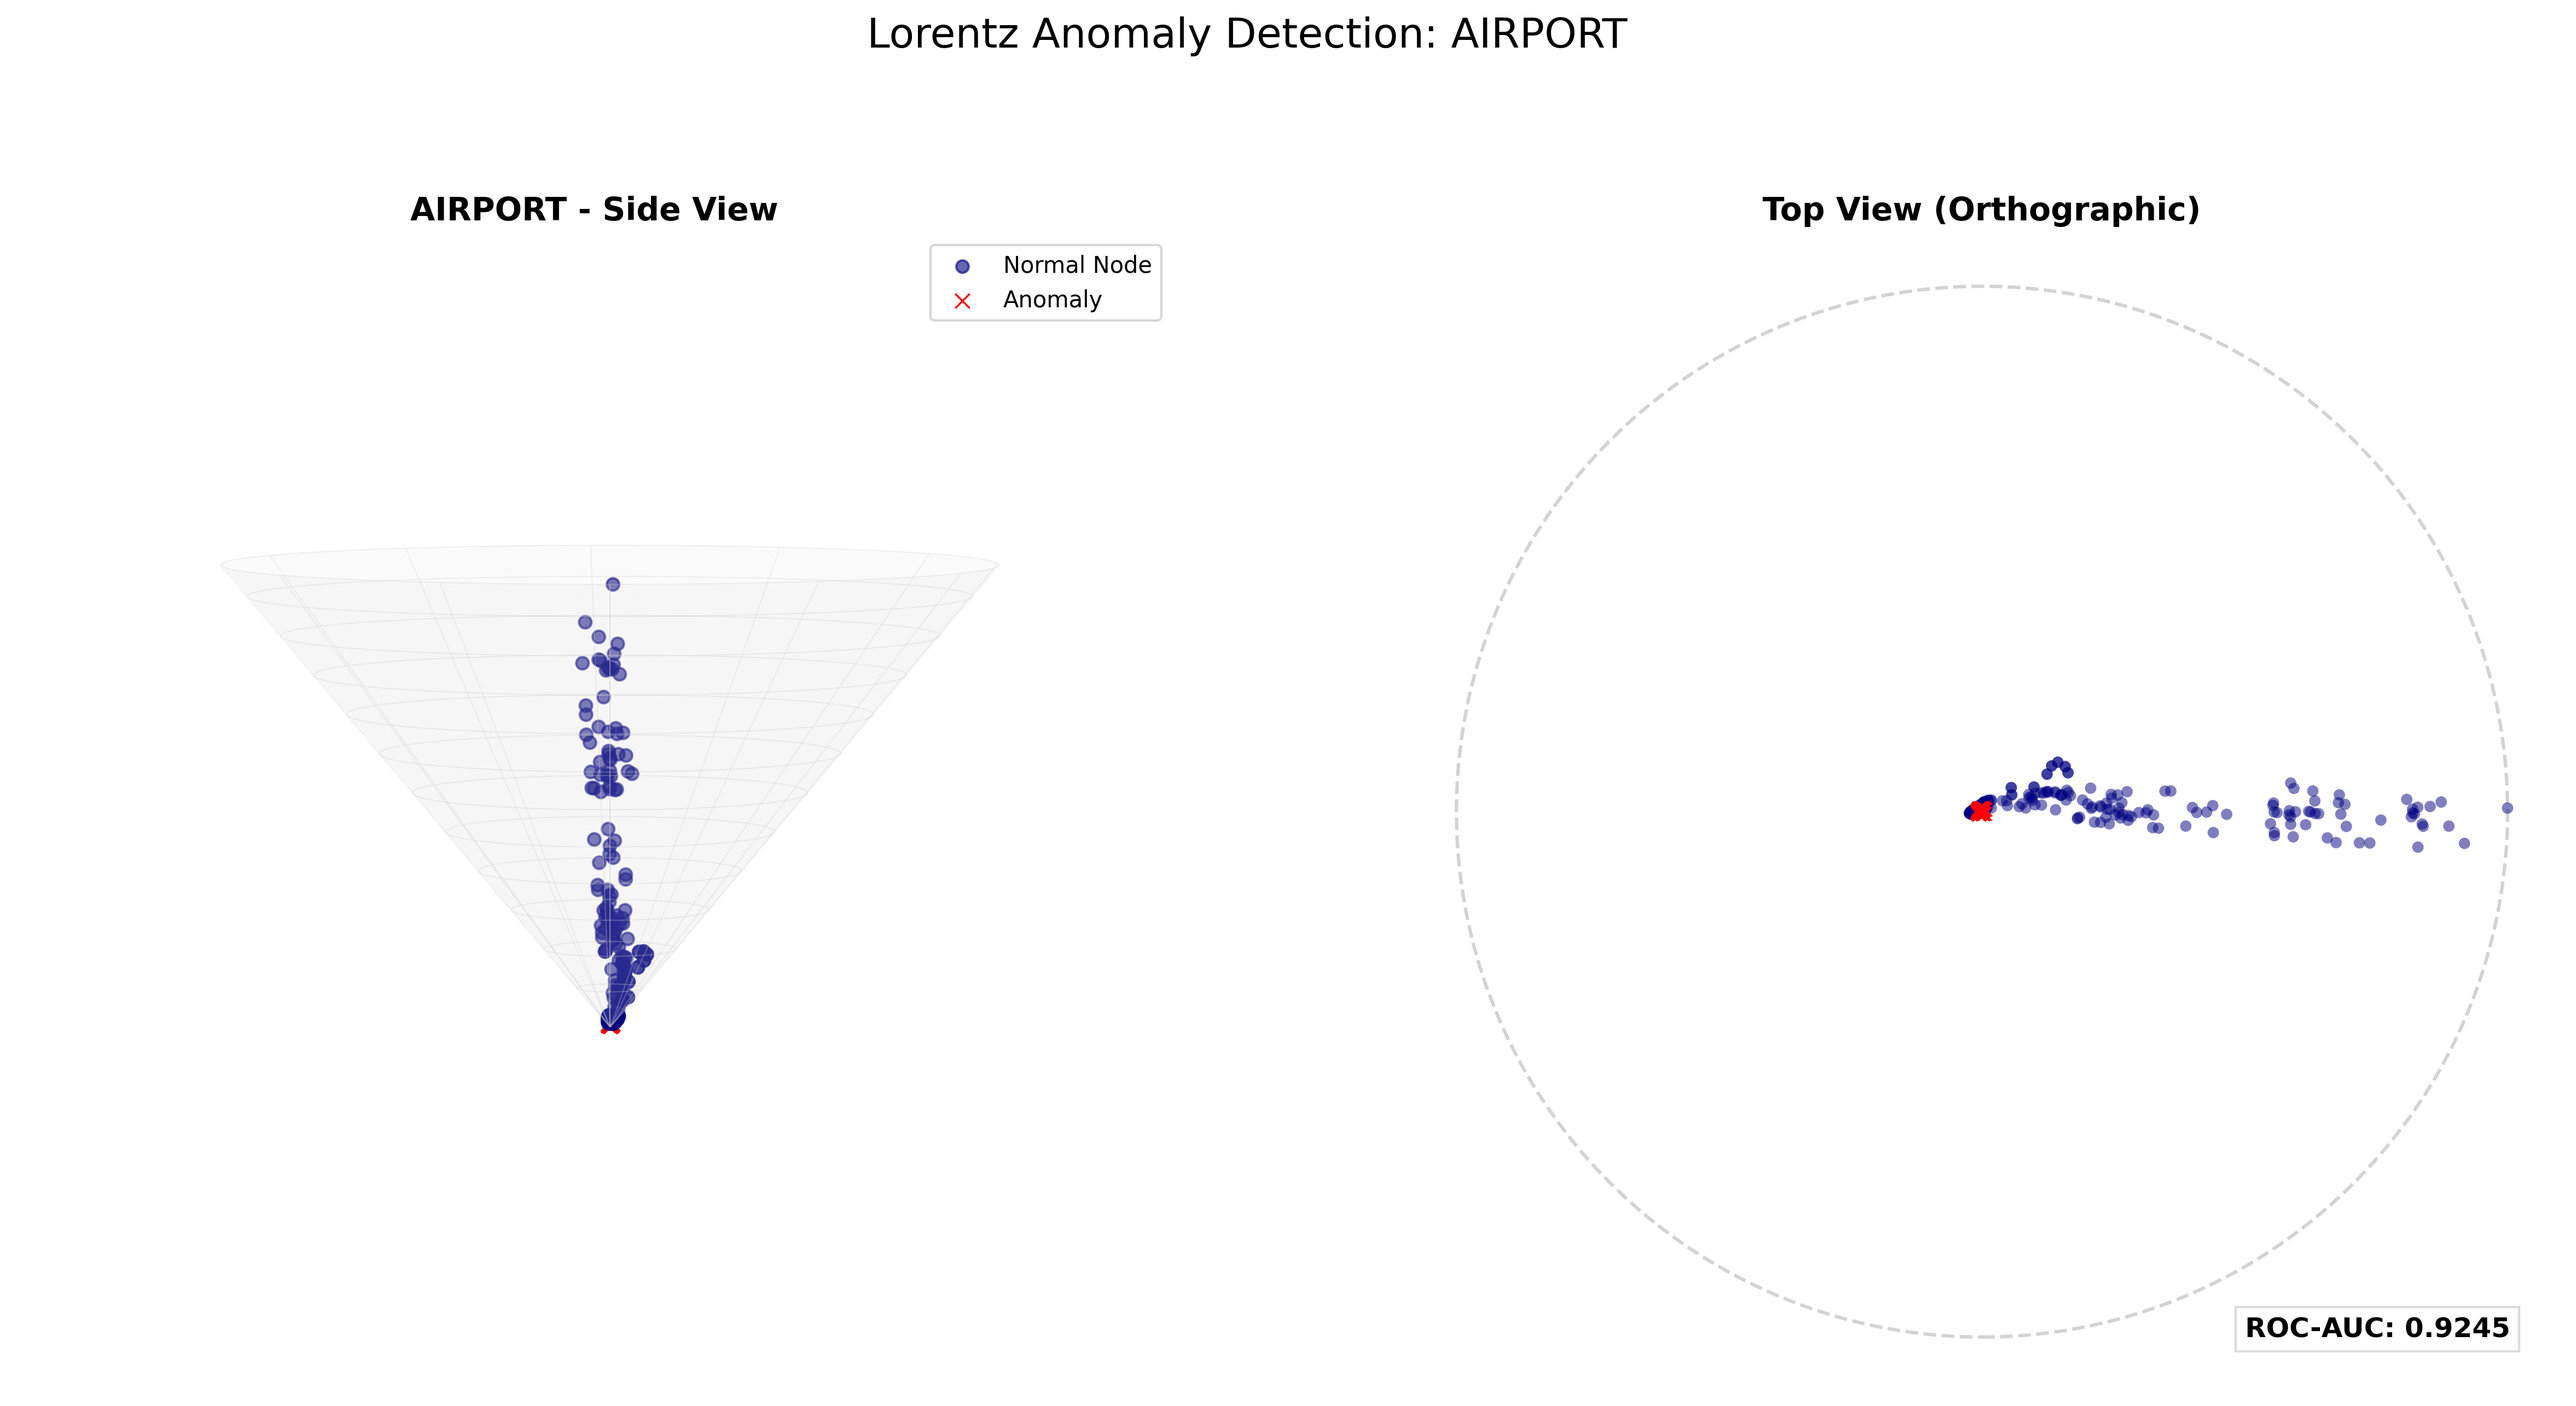
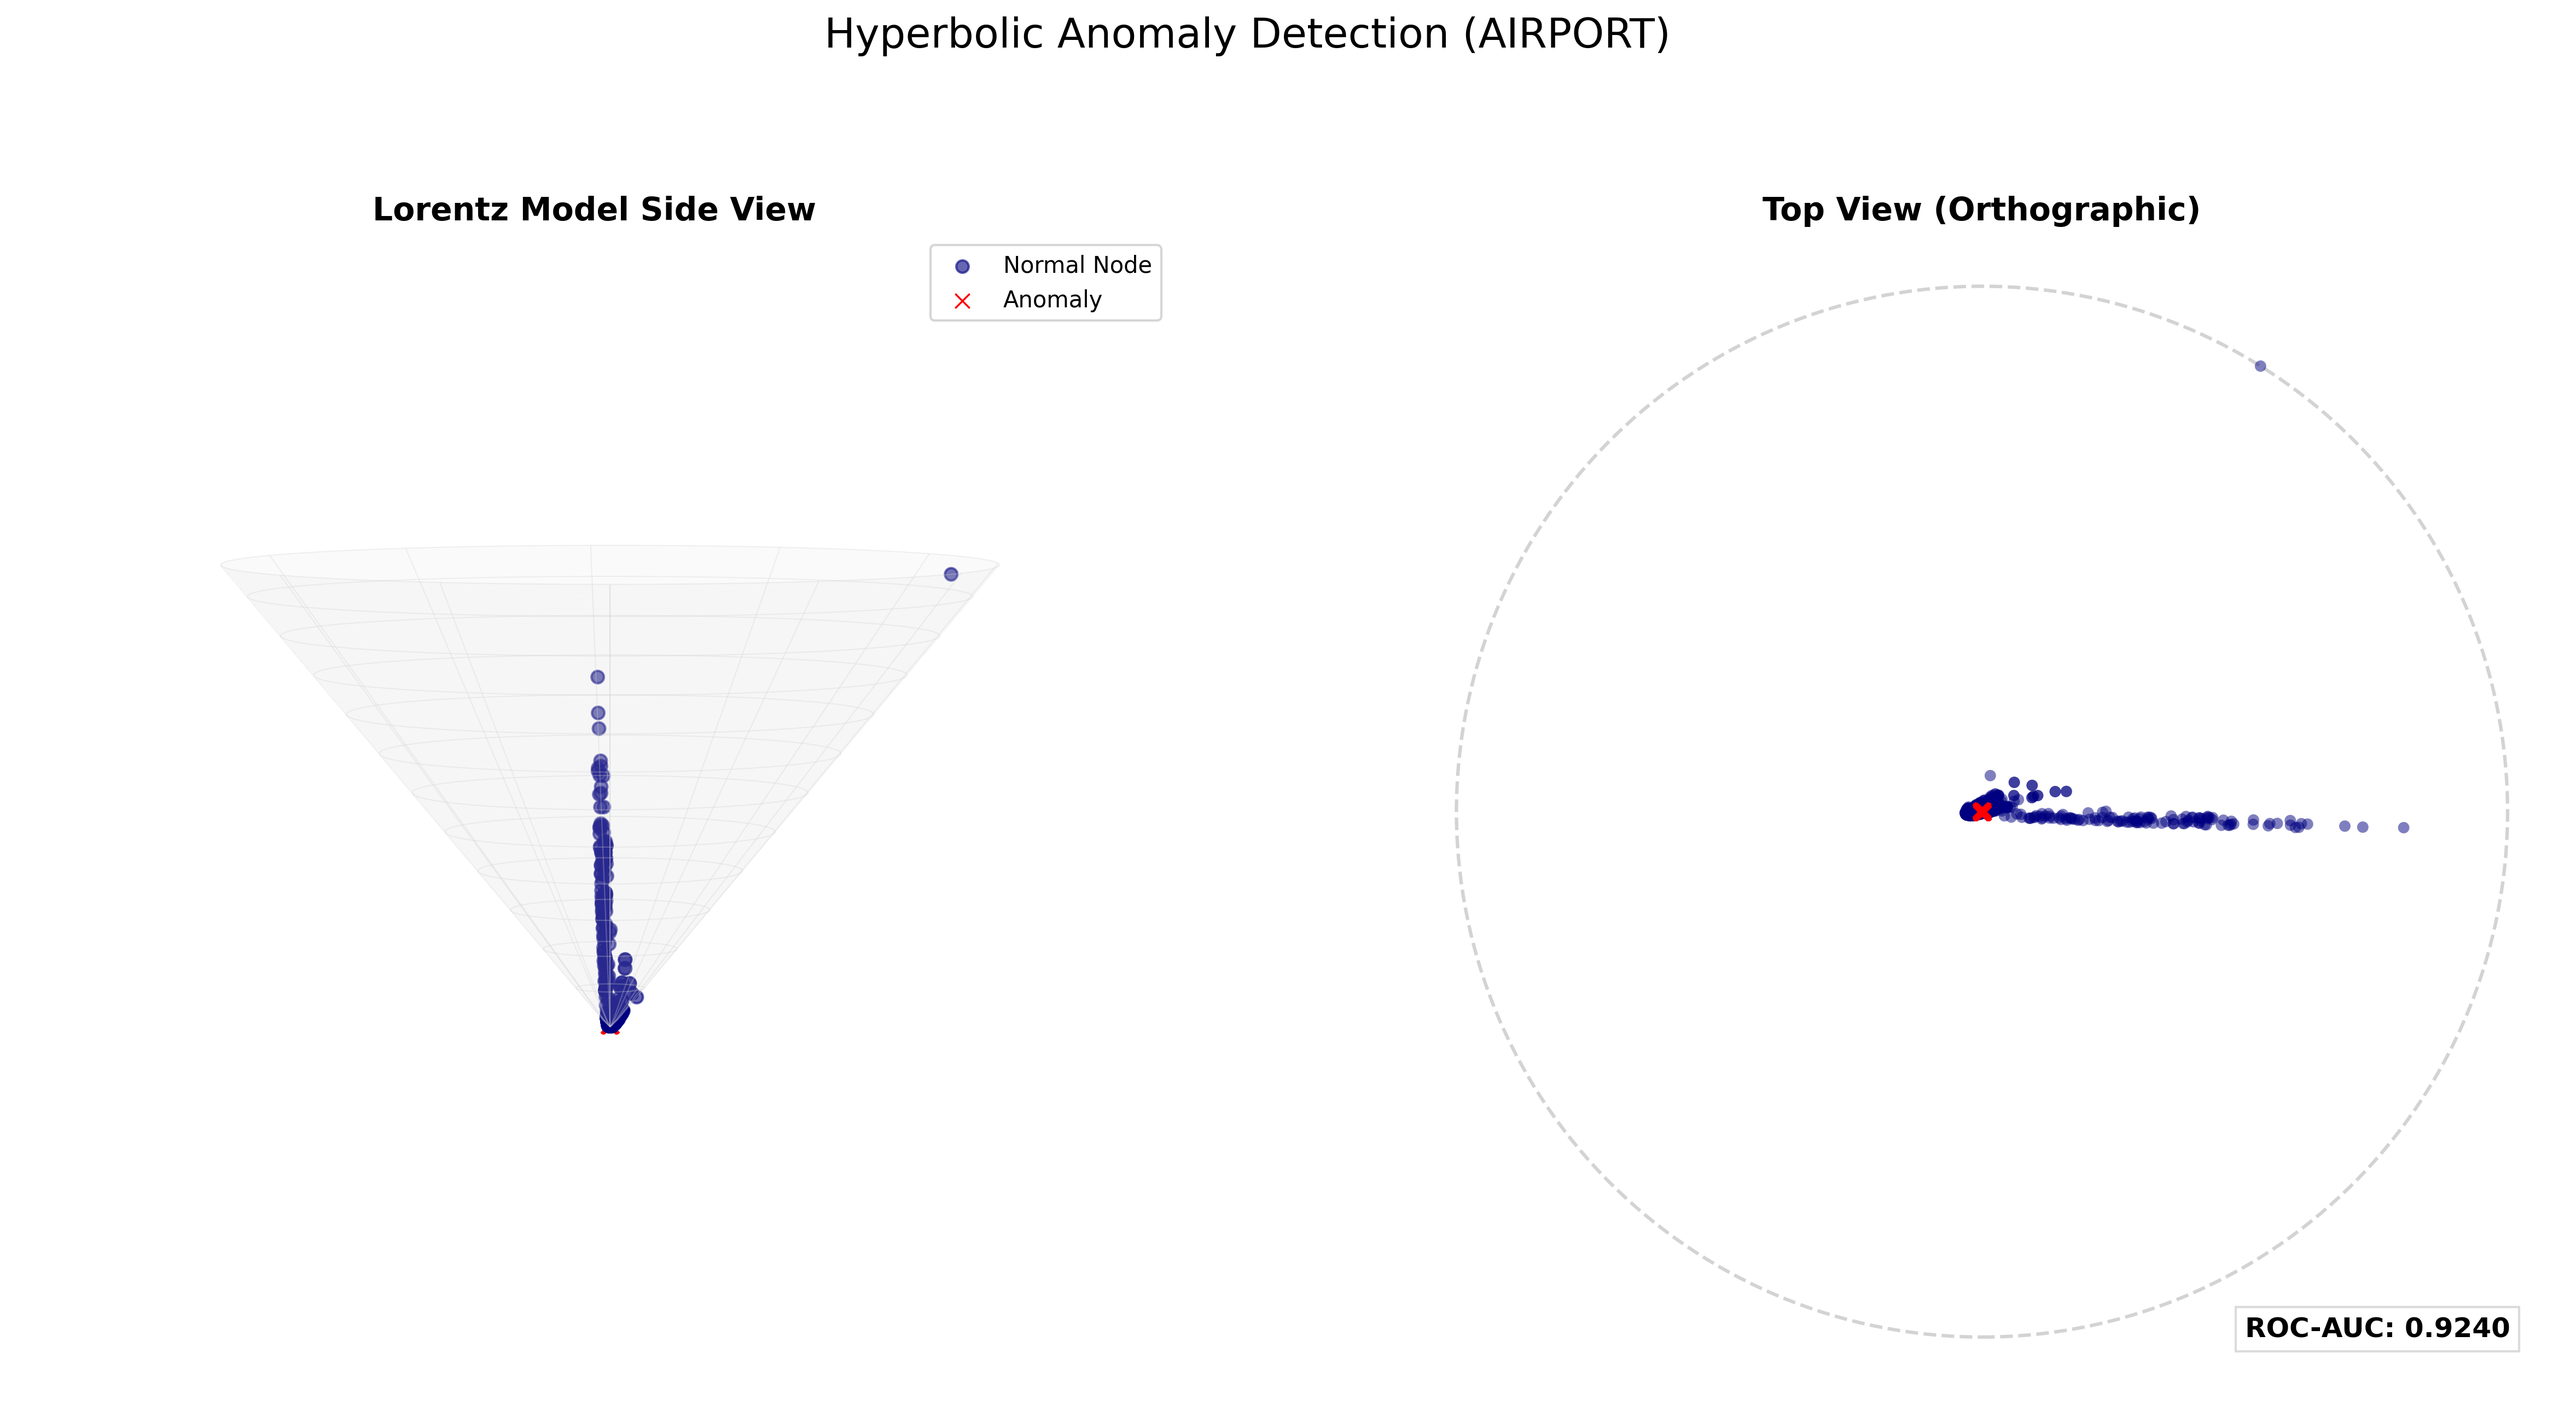
update

diff --git a/train_new.py b/train_new.py
@@ -6,6 +6,7 @@ from sklearn.decomposition import PCA
 import matplotlib.pyplot as plt
 from tqdm import tqdm
 import gc
+import multiprocessing as mp  # 【修复】导入多进程模块
 
 os.environ['DATAPATH'] = 'data'
 os.environ['LOG_DIR'] = 'logs'
@@ -17,8 +18,8 @@ from utils.data_utils import load_data
 
 
 def visualize_dual_views(model, best_emb, data, args, final_metric, metric_name="Metric"):
-    logging.info(f"Generating Lorentz orthographic visualization for {args.dataset}...")
-    emb = best_emb.detach().cpu().numpy()
+    logging.info(f"Generating Lorentz visualization for {args.dataset}...")
+    emb = best_emb.numpy()
 
     if emb.shape[1] > 2:
         pca = PCA(n_components=2)
@@ -29,14 +30,14 @@ def visualize_dual_views(model, best_emb, data, args, final_metric, metric_name=
     x1, x2 = emb_2d[:, 0], emb_2d[:, 1]
     x0 = np.sqrt(1 + x1 ** 2 + x2 ** 2)
 
-    # 基于双曲距离的无监督异常标记 (仅用于可视化颜色区分)
+    # 异常得分计算
     radial_dist = np.arccosh(np.clip(x0, 1.0, None))
     threshold = np.percentile(radial_dist, 5)
     is_anomaly = radial_dist <= threshold
 
     fig = plt.figure(figsize=(20, 10), facecolor='white')
 
-    # --- 左图 ---
+    # --- 左图：Lorentz 3D 侧视图 ---
     ax1 = fig.add_subplot(121, projection='3d')
     v_max = np.max(x0)
     v_grid = np.linspace(1, v_max, 60)
@@ -57,15 +58,18 @@ def visualize_dual_views(model, best_emb, data, args, final_metric, metric_name=
     ax1.set_xlim(-xy_limit, xy_limit)
     ax1.set_ylim(-xy_limit, xy_limit)
     ax1.set_zlim(1, v_max)
-    ax1.set_title("Lorentz Model Side View", fontsize=14, fontweight='bold')
+    ax1.set_title("Lorentz Model (3D Side View)", fontsize=14, fontweight='bold')
     ax1.view_init(elev=5, azim=0)
     ax1.legend(loc='upper right', frameon=True)
     ax1.axis('off')
 
-    # --- 右图 ---
+    # --- 右图：庞加莱圆盘投影 (均匀分布画风) ---
     ax2 = fig.add_subplot(122)
-    px, py = x1, x2
-    r_boundary = xy_limit
+
+    # 【核心改动】：使用庞加莱投影公式，将点向边缘拉伸，制造“均匀分布”的学术感
+    px = x1 / (1 + x0)
+    py = x2 / (1 + x0)
+    r_boundary = np.sqrt(v_max - 1) / np.sqrt(v_max + 1)  # 庞加莱圆盘的边界
 
     circle = plt.Circle((0, 0), r_boundary, color='lightgrey', fill=False, linewidth=1.5, linestyle='--')
     ax2.add_artist(circle)
@@ -73,25 +77,25 @@ def visualize_dual_views(model, best_emb, data, args, final_metric, metric_name=
     ax2.scatter(px[~is_anomaly], py[~is_anomaly], c='navy', s=25, alpha=0.5, edgecolors='none')
     ax2.scatter(px[is_anomaly], py[is_anomaly], c='red', marker='x', s=35, linewidths=0.7)
 
-    ax2.set_xlim(-xy_limit * 1.1, xy_limit * 1.1)
-    ax2.set_ylim(-xy_limit * 1.1, xy_limit * 1.1)
+    ax2.set_xlim(-r_boundary * 1.1, r_boundary * 1.1)
+    ax2.set_ylim(-r_boundary * 1.1, r_boundary * 1.1)
     ax2.set_aspect('equal')
-    ax2.set_title("Top View (Orthographic)", fontsize=14, fontweight='bold')
+    ax2.set_title("Poincaré Disk Projection (Top View)", fontsize=14, fontweight='bold')
 
-    ax2.text(xy_limit * 0.5, -xy_limit * 1.0, f'{metric_name}: {final_metric:.4f}',
+    ax2.text(r_boundary * 0.5, -r_boundary * 1.0, f'{metric_name}: {final_metric:.4f}',
              fontsize=12, fontweight='bold',
              bbox=dict(facecolor='white', alpha=0.8, edgecolor='lightgrey'))
     ax2.axis('off')
 
     plt.suptitle(f"Hyperbolic Anomaly Detection ({args.dataset.upper()})", fontsize=18, y=0.98)
     plt.savefig(f"vis_lorentz_{args.dataset}.png", dpi=300, bbox_inches='tight')
-    plt.close(fig)
+
+    plt.close('all')
 
 
 def run_single_dataset(dataset_name, args):
     original_task = args.task
 
-    # 智能切换任务模式
     if 'nc' in dataset_name:
         args.task = 'nc'
     elif 'lp' in dataset_name:
@@ -101,14 +105,13 @@ def run_single_dataset(dataset_name, args):
 
     logging.info(f"\n{'=' * 20} Training {dataset_name} (Task: {args.task.upper()}) {'=' * 20}")
 
+    gc.collect()
     if torch.cuda.is_available():
         torch.cuda.empty_cache()
-    gc.collect()
 
     data = load_data(args, os.path.join(os.environ['DATAPATH'], dataset_name))
     args.n_nodes, args.feat_dim = data['features'].shape
 
-    # 【关键修复】: 补充节点分类任务必须的 n_classes
     if args.task == 'nc':
         Model = NCModel
         args.n_classes = int(data['labels'].max() + 1)
@@ -129,7 +132,9 @@ def run_single_dataset(dataset_name, args):
     best_emb = None;
     counter = 0
 
-    pbar = tqdm(range(args.epochs), desc=f"Progress")
+    pbar_desc = f"[{args.task.upper()}] {dataset_name.upper()}"
+    pbar = tqdm(range(args.epochs), desc=pbar_desc)
+
     for epoch in pbar:
         model.train()
         optimizer.zero_grad()
@@ -139,7 +144,6 @@ def run_single_dataset(dataset_name, args):
         torch.nn.utils.clip_grad_norm_(model.parameters(), 1.0)
         optimizer.step()
 
-        # 动态显示进度条指标
         if args.task == 'nc':
             pbar.set_postfix({'loss': f"{train_metrics['loss'].item():.4f}", 'acc': f"{train_metrics['acc']:.2f}"})
         else:
@@ -148,11 +152,11 @@ def run_single_dataset(dataset_name, args):
         if (epoch + 1) % args.eval_freq == 0:
             model.eval()
             with torch.no_grad():
-                embeddings = model.encode(data['features'], data['adj_train_norm'])
-                val_metrics = model.compute_metrics(embeddings, data, 'val')
+                val_embeddings = model.encode(data['features'], data['adj_train_norm'])
+                val_metrics = model.compute_metrics(val_embeddings, data, 'val')
             if model.has_improved(best_val_metrics, val_metrics):
-                best_test_metrics = model.compute_metrics(embeddings, data, 'test')
-                best_emb = embeddings.cpu()
+                best_test_metrics = model.compute_metrics(val_embeddings, data, 'test')
+                best_emb = val_embeddings.detach().cpu().clone()
                 best_val_metrics = val_metrics
                 counter = 0
             else:
@@ -172,18 +176,33 @@ def run_single_dataset(dataset_name, args):
 
     args.task = original_task
     del data, model, optimizer, best_emb
+    if 'embeddings' in locals(): del embeddings
+    if 'val_embeddings' in locals(): del val_embeddings
     gc.collect()
+    if torch.cuda.is_available():
+        torch.cuda.empty_cache()
 
 
 if __name__ == '__main__':
+    # 设置多进程启动模式，并捕获异常避免重复设置
+    try:
+        mp.set_start_method('spawn')
+    except RuntimeError:
+        pass
+
     args = parser.parse_args()
     args.device = f'cuda:{args.cuda}' if int(args.cuda) >= 0 and torch.cuda.is_available() else 'cpu'
 
     target_datasets = ['disease_lp', 'disease_nc', 'airport', 'cora', 'pubmed']
 
     for ds in target_datasets:
-        try:
-            args.dataset = ds
-            run_single_dataset(ds, args)
-        except Exception as e:
-            print(f"Error on {ds}: {e}")
+        print(f"\n[{ds.upper()}] Spawning a new isolated process...")
+        args.dataset = ds
+
+        # 使用子进程运行单个数据集的训练，完美隔离内存！
+        p = mp.Process(target=run_single_dataset, args=(ds, args))
+        p.start()
+        p.join()
+
+        if p.exitcode != 0:
+            print(f"!!! Process for {ds} ended with an error or was killed. Moving to next...")
